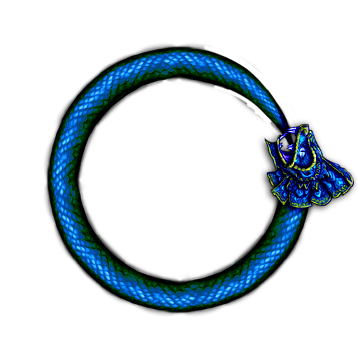
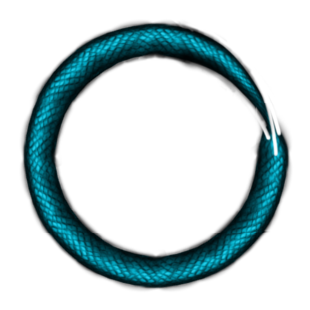
started animations

diff --git a/src/resources/ResourceManager.java b/src/resources/ResourceManager.java
@@ -19,15 +19,18 @@ public class ResourceManager
 	public static final String PNG = ".png";
 	public static final String JPG = ".jpg";
 	// title
-	private static final String CREDITS = "credits";
-	private static final String GAMEOVER = "game_over";
-	private static final String HOWTO = "how_to_play";
-	private static final String TITLE = "title";
+	private static final String CREDITS = "menu_credits";
+	private static final String GAMEOVER = "menu_lose";
+	private static final String HOWTO = "menu_howto";
+	private static final String TITLE = "menu_title";
 	// game
 	private static final String WHEEL_BACK = "wheel_back";
 	private static final String SNAKE_GREEN = "snake_green";
 	private static final String SNAKE_RED = "snake_red";
 	private static final String SNAKE_BLUE = "snake_blue";
+	private static final String HEAD_GREEN = "head_green";
+	private static final String HEAD_RED = "head_red";
+	private static final String HEAD_BLUE = "head_blue";
     private static final String MARBLE_RED = "marble_red";
     private static final String MARBLE_BLUE = "marble_blue";
     private static final String MARBLE_GREEN = "marble_green";
@@ -50,6 +53,7 @@ public class ResourceManager
     private HashMap<String, Image> images 
 		= new HashMap<String, Image>();
     private TrueTypeFont font;
+    private TrueTypeFont fontBig;
 
     /// METHODS
     
@@ -58,10 +62,10 @@ public class ResourceManager
     {
 		// Images
     	// menu
-    	addImage(TITLE, PNG);
-    	addImage(CREDITS, PNG);
-    	addImage(HOWTO, JPG);
-    	addImage(GAMEOVER, JPG);
+    	addImage(TITLE, JPG);
+    	//addImage(CREDITS, JPG);
+    	//addImage(HOWTO, JPG);
+    	//addImage(GAMEOVER, JPG);
     	// game
     	addImage(WHEEL_BACK, PNG);
     	addImage(SNAKE_BLUE, PNG);
@@ -72,9 +76,16 @@ public class ResourceManager
     	addImage(MARBLE_BLUE, PNG);
     	addImage(MARBLE_WHITE, PNG);
     	
+    	// Animations
+    	addImages(HEAD_RED, 3);
+    	addImages(HEAD_GREEN, 3);
+    	addImages(HEAD_BLUE, 3);
+    	
     	// Font
 		Font temp = new Font("Dominican Small Caps", Font.PLAIN, 32);
 		font = new TrueTypeFont(temp, true);	
+		temp = new Font("Dominican Small Caps", Font.PLAIN, 36);
+		fontBig = new TrueTypeFont(temp, true);
     }
 
     // query
@@ -82,6 +93,11 @@ public class ResourceManager
     public TrueTypeFont getFont()
     {
     	return font;
+    }
+    
+    public TrueTypeFont getFontBig()
+    {
+    	return fontBig;
     }
     
     public Animation getAnimation(String animation_name)
@@ -118,6 +134,26 @@ public class ResourceManager
 			// TODO Auto-generated catch block
 			e.printStackTrace();
 		}
+    }
+    
+    protected void addImages(String name, int n_images)
+    {
+		try
+		{
+			// Load and add each image
+	    	Image image_i;
+	    	for(int i = 0; i < n_images; i++)
+	    	{
+	    		image_i = new Image(RESDIR+name+i+PNG);
+	    		images.put(name+i, image_i);
+	    	}
+		}
+		catch (SlickException e)
+		{
+			// TODO Auto-generated catch block
+			e.printStackTrace();
+		}
+    		
     }
     
     protected void addAnimation(String name, int n_frames, int frame_duration)

diff --git a/src/model/Snake.java b/src/model/Snake.java
@@ -24,9 +24,11 @@ public class Snake extends GameObject
 	private float angle = (float) (Math.random()*Math.PI*2);
 	private float speed = 0;
 	private float radius; 
+	private float current_frame = 0;
 	private int stunned = 0;
 	private ColourCode colour;
-	private Image image;
+	private Image tail;
+	private Image[] head;
 	
 	/// METHODS
 	
@@ -80,17 +82,25 @@ public class Snake extends GameObject
 		// convert polar to cartesian coordinates
 		calculateCoordinates();
 		
-		// cache image
+		// cache images
+		ResourceManager rm = ResourceManager.getInstance();
+		head = new Image[3];
 		switch(colour)
 		{
 			case RED:
-				image = ResourceManager.getInstance().getImage("snake_red");
+				tail = rm.getImage("snake_red");
+				for(int i = 0; i < 3; i++) 
+					head[i] = rm.getImage("head_red"+i);
 				break;
 			case BLUE:
-				image = ResourceManager.getInstance().getImage("snake_blue");
+				tail = rm.getImage("snake_blue");
+				for(int i = 0; i < 3; i++) 
+					head[i] = rm.getImage("head_blue"+i);
 				break;
 			case GREEN:
-				image = ResourceManager.getInstance().getImage("snake_green");
+				tail = rm.getImage("snake_green");
+				for(int i = 0; i < 3; i++) 
+					head[i] = rm.getImage("head_green"+i);
 				break;
 			default:
 				break;
@@ -102,7 +112,12 @@ public class Snake extends GameObject
 	{
 		// Reset angle and convert polar to cartesian coordinates
 		angle = new_angle;
-		image.setRotation((float)(angle*180/Math.PI) + 15);
+		// Set aesthetic angle
+		float deg_angle = (float)(angle*180/Math.PI);
+		tail.setRotation(deg_angle + 15);
+		for(int i = 0; i<3; i++) 
+			head[i].setRotation(deg_angle + 145);
+		// Move body
 		calculateCoordinates();
 	}
 	
@@ -115,10 +130,13 @@ public class Snake extends GameObject
 	// interface
 	public void draw(Graphics g)
 	{	
-		image.drawCentered(center.x, center.y);
+		tail.drawCentered(center.x, center.y);
+		head[0].drawCentered(position.x, position.y);
 		
 		if(stunned > 0)
 			g.drawString("***STUNNED***", position.x, position.y);
+		
+		drawHitbox(g);
 	}
 	
 	public IDynamic.Rtn update()

diff --git a/src/navigation/GameOver.java b/src/navigation/GameOver.java
@@ -3,7 +3,9 @@ package navigation;
 import model.Level;
 
 import org.newdawn.slick.Graphics;
+import org.newdawn.slick.Image;
 
+import resources.ResourceManager;
 import system.ColourCode;
 import system.ControlManager;
 import utility.IDynamic;
@@ -13,19 +15,23 @@ public class GameOver extends Scene
 	/// ATTRIBUTES
 	private Scene nextScene = null;
 	private int final_score;
+	private Image background;
 	
 	/// METHODS
 	
 	public GameOver(int init_final_score)
 	{
 		final_score = init_final_score;
+		background = ResourceManager.getInstance().getImage("menu_lose");
 	}
 	
 	// implementation
 	
 	public void draw(Graphics g)
 	{
-		g.drawString("GAME OVER -- you scored: " + final_score, 32, 32);
+		background.drawCentered(centre.x, centre.y);
+		g.setFont(ResourceManager.getInstance().getFontBig());
+		g.drawString("Final Score : " + final_score, 396, 396);
 	}
 
 	public IDynamic.Rtn update()

diff --git a/src/model/Midgard.java b/src/model/Midgard.java
@@ -36,7 +36,7 @@ public class Midgard extends GameObject
 	
 	public boolean tryResist(int damage_amount)
 	{
-		if(hitpoints < damage_amount)
+		if(hitpoints <= damage_amount)
 		{
 			hitpoints = 0;
 			return false;
@@ -84,7 +84,12 @@ public class Midgard extends GameObject
 	@Override
 	public IDynamic.Rtn update()
 	{
-		super.update();
+		// Check for interrupts
+		IDynamic.Rtn super_rtn = super.update();
+		if(super_rtn == IDynamic.Rtn.DELETE_OBJECT)
+			return IDynamic.Rtn.CHANGE_SCENE;
+		else if(super_rtn != IDynamic.Rtn.CONTINUE) 
+			return super_rtn;
 		
 		// decrease health slowly if over maximum
 		if(hitpoints > MAX_HITPOINTS)

diff --git a/src/navigation/HowToPlay.java b/src/navigation/HowToPlay.java
@@ -21,7 +21,7 @@ public class HowToPlay extends Scene
 	// creation
 	public HowToPlay()
 	{
-		background = ResourceManager.getInstance().getImage("how_to_play");
+		background = ResourceManager.getInstance().getImage("menu_howto");
 	}
 	
 	// implementation

diff --git a/src/navigation/Credits.java b/src/navigation/Credits.java
@@ -21,7 +21,7 @@ public class Credits extends Scene
 	// creation
 	public Credits()
 	{
-		background = ResourceManager.getInstance().getImage("credits");
+		background = ResourceManager.getInstance().getImage("menu_credits");
 	}
 	
 	// implementation

diff --git a/src/navigation/Title.java b/src/navigation/Title.java
@@ -23,7 +23,7 @@ public class Title extends Scene
 	// creation
 	public Title()
 	{
-		background = ResourceManager.getInstance().getImage("title");
+		background = ResourceManager.getInstance().getImage("menu_title");
 	}
 	// implementation
 	

diff --git a/src/model/GameObject.java b/src/model/GameObject.java
@@ -31,6 +31,12 @@ public abstract class GameObject implements IVisible, IDynamic
 	}
 	
 	// access
+	
+	public boolean isDead()
+	{
+		return dead;
+	}
+	
 	public void die()
 	{
 		dead = true;
